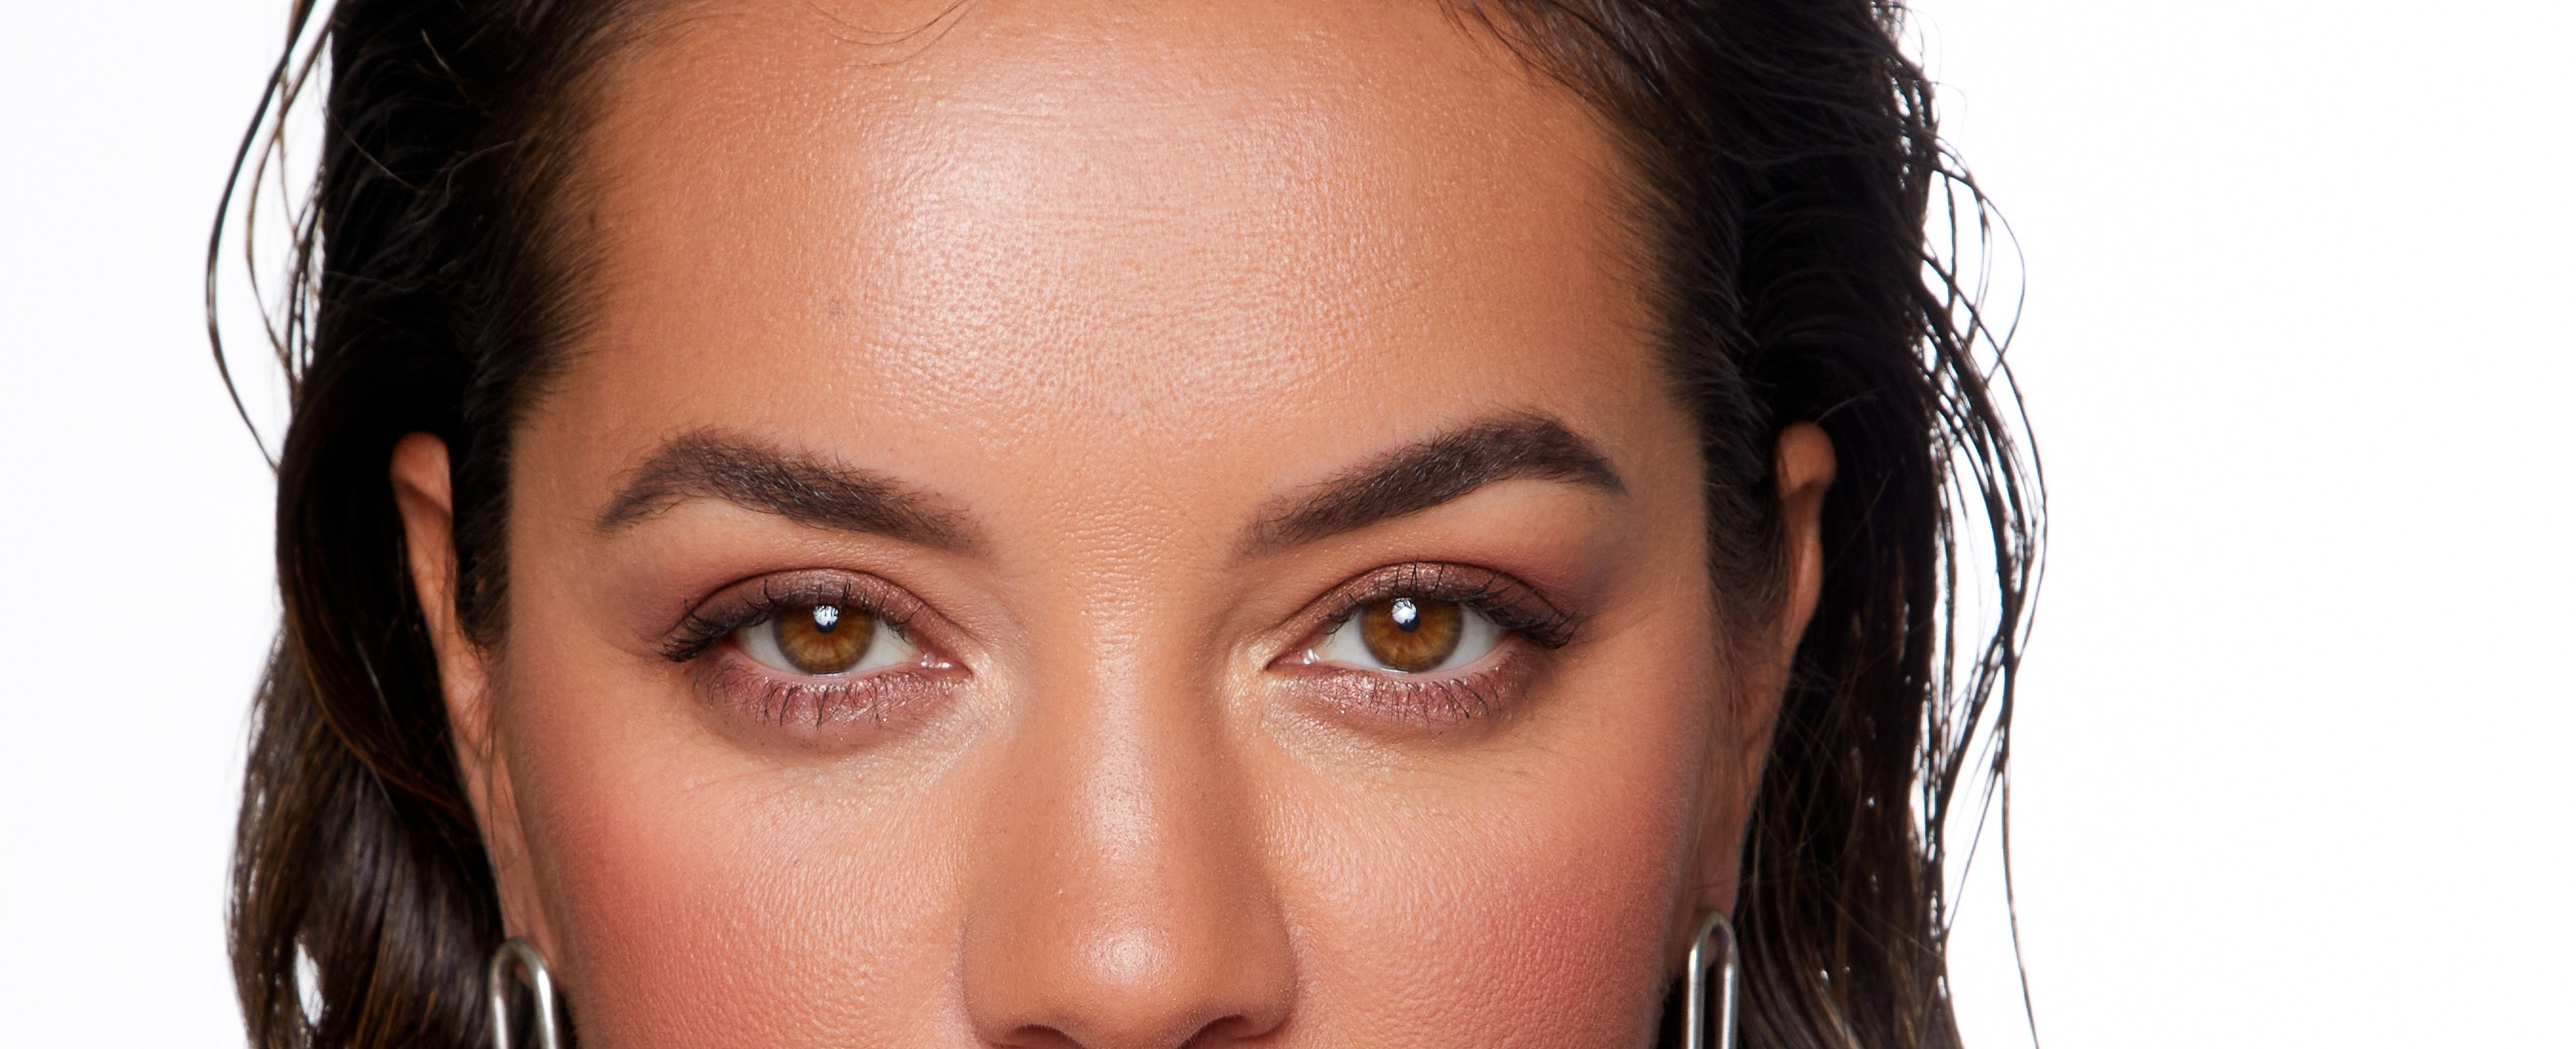
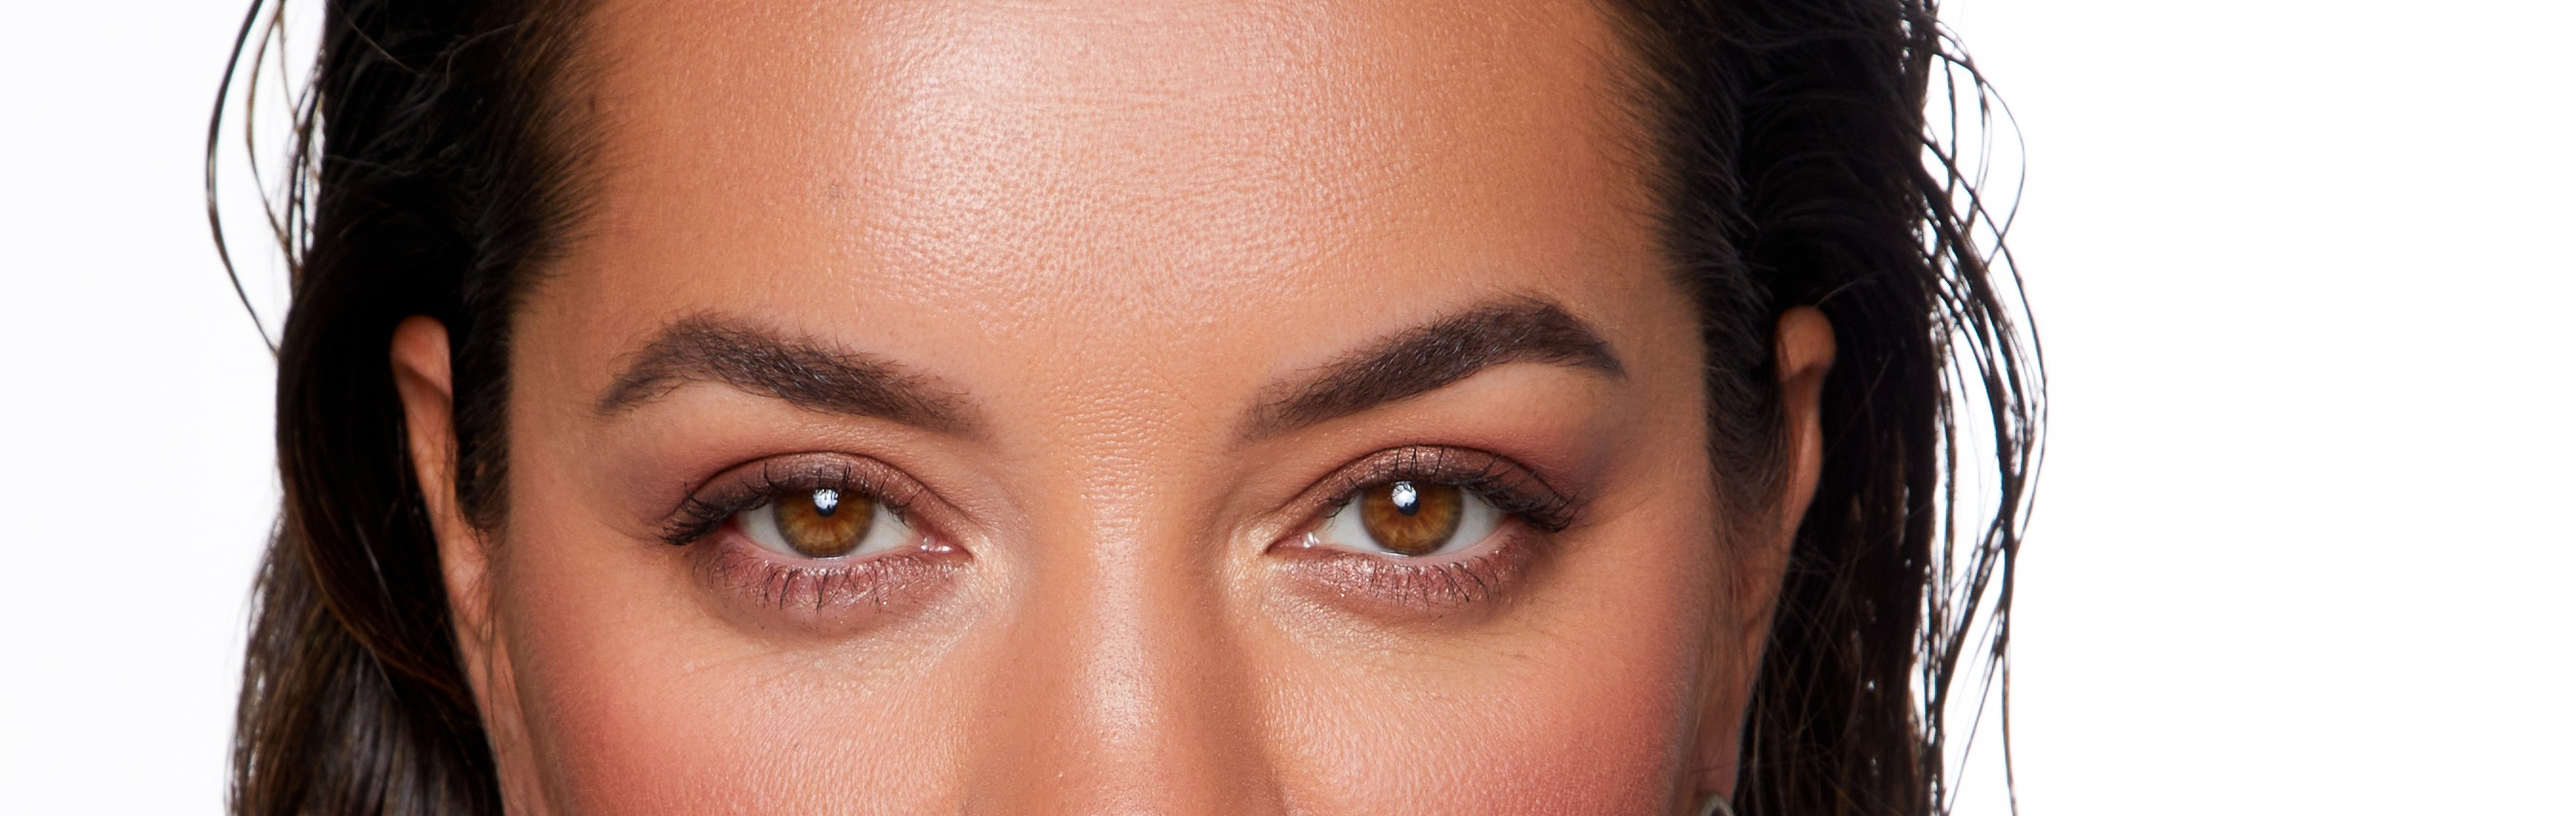
Fix Block 1: padding bug, crop, headline scale/overlap, nav contrast
Root cause of the left-margin misalignment: .profile-info used the
shorthand `padding: var(--space-5) 0 var(--space-6)`, whose 3-value
form sets left/right padding to 0 — silently overriding the .container
class's padding-inline. That's why "Marina Kazakova" sat flush at the
viewport edge while the headline above it kept its margin. Switched to
padding-block so the inherited container padding applies again; name/
body text and the headline now share the same left edge, and LET'S
TALK is no longer pinned to the raw viewport edge.

Also, per the new reference screenshots:
- Re-cropped the hero photo shorter/wider (3.15:1) directly from the
  source at full resolution, instead of stretching the already-tight
  2.45:1 crop via CSS — keeps both ears, brows and a small forehead
  sliver in frame without re-cropping-of-a-crop softness.
- Reduced the headline scale ~12% and changed the straddle offset so
  line 1 ("I SEE WHAT") sits fully on the photo and line 2 ("IT CAN
  BECOME.") lands on white, instead of both lines overlapping the seam.
- profile-info now vertically centers its row (name/bio vs. LET'S
  TALK) instead of top-aligning, and body copy sizes were dialed back
  so the bold statement line fits on one line.
- Nav links get a soft white text-shadow glow (no background plate)
  so PROFILE/EXPERIENCE stay legible over dark hair at the top of the
  page; the glow fades once .is-scrolled adds a real background.
[…]

diff --git a/css/profile.css b/css/profile.css
@@ -9,9 +9,9 @@
 .profile-media {
   position: relative;
   width: 100%;
-  aspect-ratio: 2.45 / 1;
-  min-height: 300px;
-  max-height: 480px;
+  aspect-ratio: 3.15 / 1;
+  min-height: 250px;
+  max-height: 380px;
   overflow: hidden;
   background: var(--color-black);
 }
@@ -25,11 +25,11 @@
 }
 
 /* Headline straddles the seam between the photo and the white profile zone:
-   negative margin pulls it up over the image, its lower half sits on white. */
+   negative margin pulls line 1 back over the image, line 2 lands on white. */
 .profile-reveal {
   position: relative;
   z-index: 2;
-  margin-top: calc(-1 * var(--fs-display-xl) * 0.62);
+  margin-top: calc(-1 * var(--fs-display-xl) * var(--lh-tight));
 }
 
 .profile-reveal__line {
@@ -68,41 +68,41 @@
 .profile-info {
   display: flex;
   flex-wrap: wrap;
-  align-items: flex-start;
+  align-items: center;
   justify-content: space-between;
   gap: var(--space-4);
-  padding: var(--space-5) 0 var(--space-6);
+  padding-block: var(--space-4) var(--space-6);
 }
 
-.profile-info__text { max-width: 56rem; }
+.profile-info__text { max-width: 64rem; }
 
 .profile-info__name {
   font-family: var(--font-body);
   font-weight: 700;
-  font-size: var(--fs-body-lg);
-  margin-bottom: 0.4em;
+  font-size: var(--fs-body);
+  margin-bottom: 0.35em;
 }
 
 .profile-info__roles {
-  font-size: var(--fs-body-lg);
+  font-size: var(--fs-body);
   opacity: 0.75;
-  margin-bottom: var(--space-3);
+  margin-bottom: var(--space-2);
 }
 
 .profile-info__bold {
   font-weight: 700;
-  font-size: var(--fs-heading);
+  font-size: var(--fs-body-lg);
   line-height: var(--lh-snug);
 }
 
 .profile-info__body {
-  font-size: var(--fs-body-lg);
+  font-size: var(--fs-body);
   opacity: 0.85;
   line-height: var(--lh-relaxed);
-  margin-top: 0.5em;
+  margin-top: 0.4em;
 }
 
-.profile-info__cta { flex-shrink: 0; margin-top: 0.4em; }
+.profile-info__cta { flex-shrink: 0; }
 
 @media (max-width: 760px) {
   .profile-media { aspect-ratio: 4 / 3; max-height: none; }

diff --git a/css/nav.css b/css/nav.css
@@ -52,6 +52,25 @@
   margin-right: auto;
 }
 
+/* Nav sits directly over the hero photo before scrolling — no background
+   plate is used (per spec), so a soft white glow keeps text legible over
+   dark hair without looking like a bar. Fades out once .is-scrolled adds
+   a real background, since it's redundant there. */
+.site-nav__mark,
+.site-nav__link,
+.lang-switch__btn,
+.lang-switch__sep {
+  text-shadow: 0 0 5px #fff, 0 0 10px rgba(255, 255, 255, 0.8), 0 0 16px rgba(255, 255, 255, 0.6);
+  transition: text-shadow var(--dur-base) var(--ease-editorial), opacity var(--dur-fast) var(--ease-editorial);
+}
+
+.site-nav.is-scrolled .site-nav__mark,
+.site-nav.is-scrolled .site-nav__link,
+.site-nav.is-scrolled .lang-switch__btn,
+.site-nav.is-scrolled .lang-switch__sep {
+  text-shadow: none;
+}
+
 .site-nav__links {
   display: flex;
   align-items: center;

diff --git a/css/tokens.css b/css/tokens.css
@@ -25,7 +25,7 @@
 
   /* Fluid type scale — clamp(min, preferred, max) */
   --fs-display-huge: clamp(4rem, 1rem + 19.5vw, 18.5rem);  /* RETAIL/BUSINESS/BRANDS/FILMS poster nav */
-  --fs-display-xl: clamp(2.75rem, 2rem + 6vw, 7.5rem);     /* hero I SEE / oversized direction words */
+  --fs-display-xl: clamp(2.4rem, 1.75rem + 5.3vw, 6.6rem); /* hero I SEE / oversized direction words */
   --fs-display-lg: clamp(2.5rem, 1.6rem + 5vw, 6.5rem);    /* MARINA KAZAKOVA, panel titles */
   --fs-display-md: clamp(1.9rem, 1.3rem + 2.4vw, 3.2rem);  /* method titles */
   --fs-heading: clamp(1.7rem, 1.2rem + 1.6vw, 2.4rem);     /* Brand Ecosystem Design statement */
